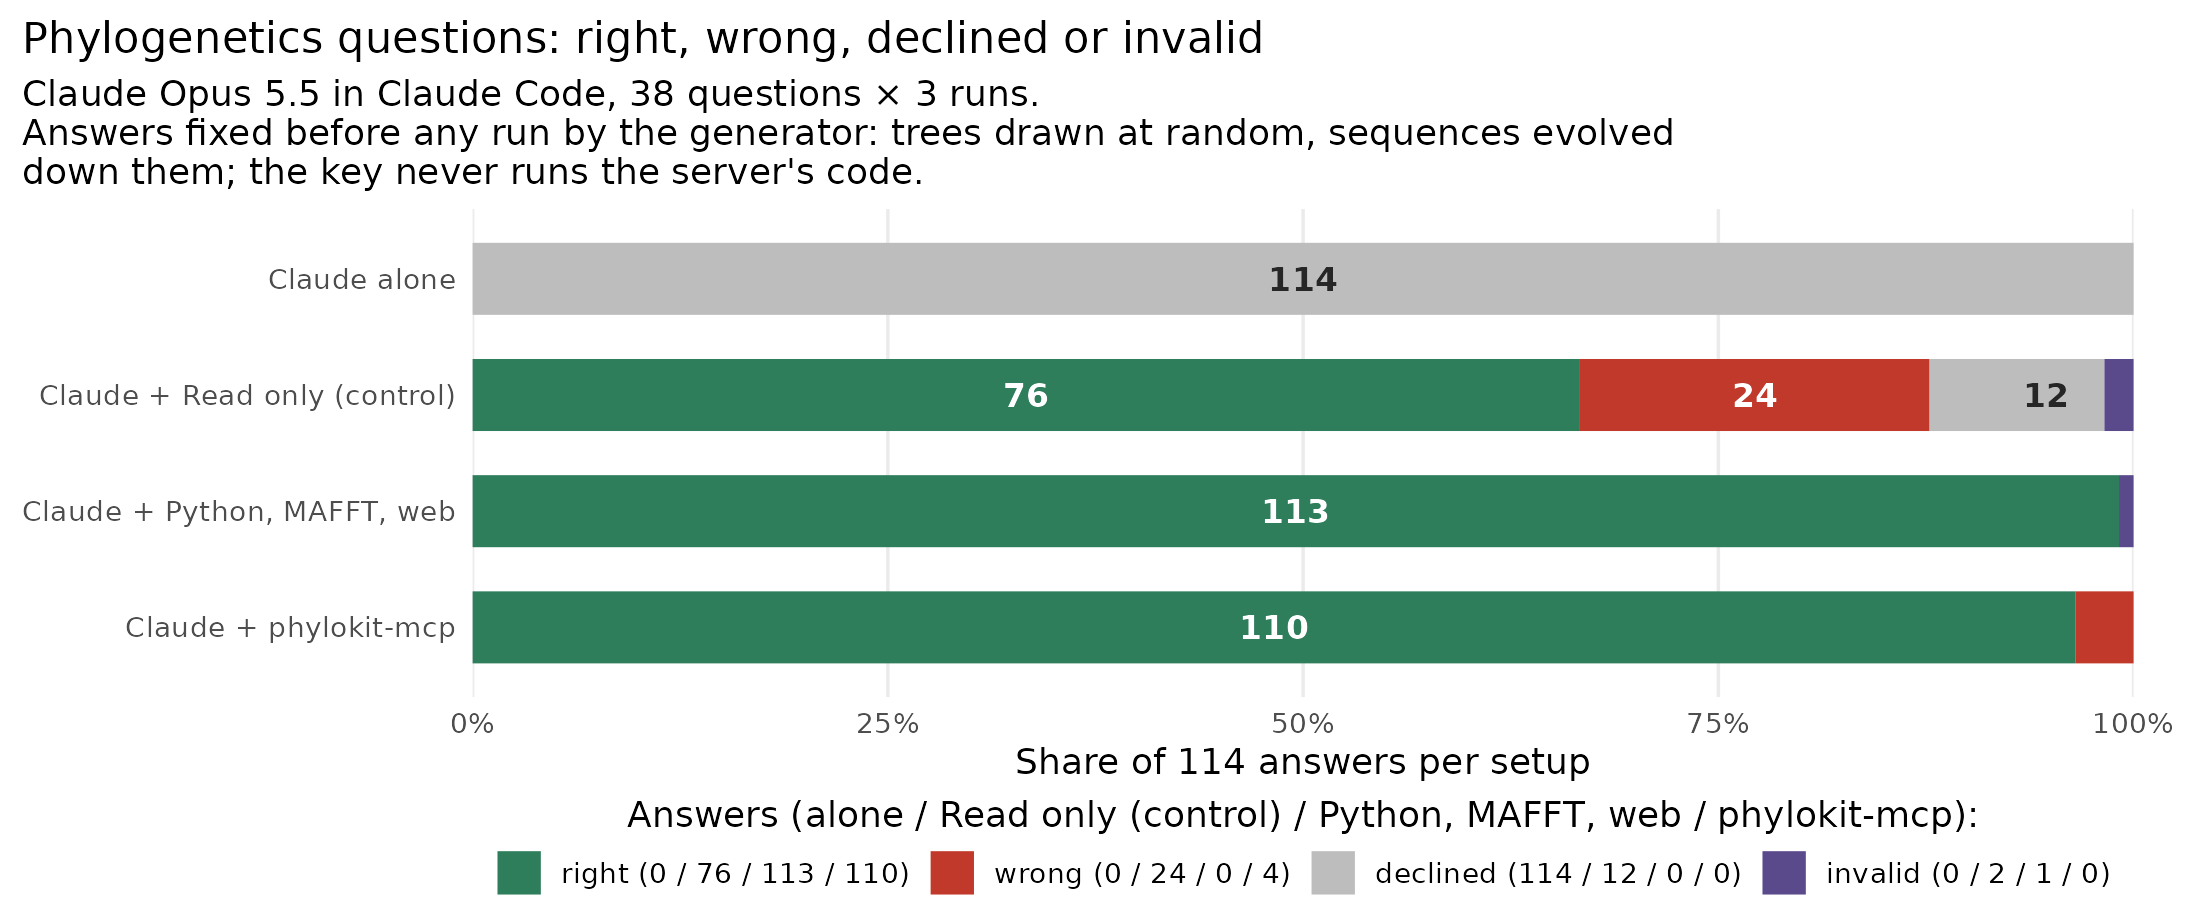
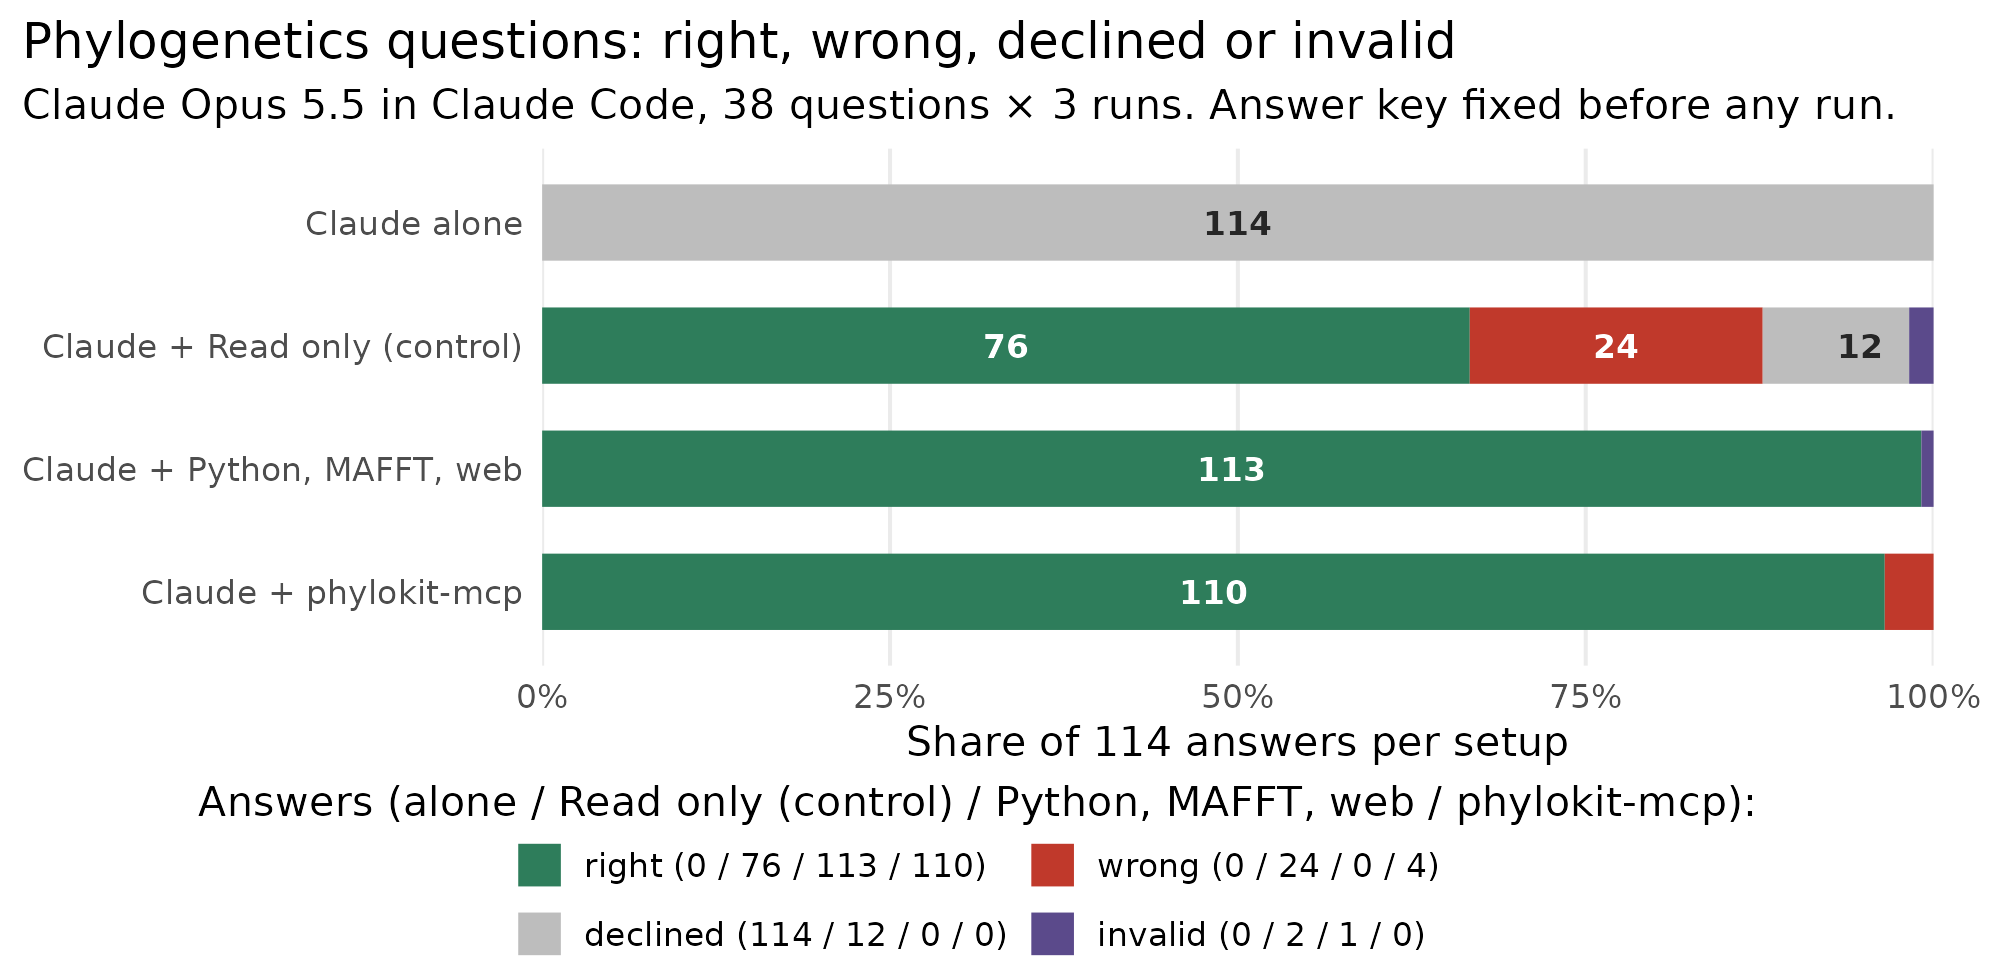
docs(readme): round-2 polish; chart re-rendered for a 780 px display
README 1,066 -> 924 words. Opener names AI agents; logo and the top-block
tests line removed (tests line moved under Tools); badge alt text CI/PyPI/
Python/License/DOI/Glama; sentence-case table headers; benchmark prose now
gives answer counts (110 vs 113 of 114, as the chart shows) beside the
question counts (36 vs 37 of 38, sign test p = 1) from summary.tsv and
paired.tsv. MAFFT fallback and uvx detail move verbatim to docs/INSTALL.md;
the citation paragraph becomes one sentence pointing to CITATION.cff, which
carries the IQ-TREE 3, piqtree and MAFFT references, and NOTICE.

plot.R, agent_qa.png only: 10 in at base_size 15 (was 11 in at 13), a
one-line subtitle, a two-row legend centred on the plot. Data, counts and
colours unchanged; the other three figures untouched.

diff --git a/README.md b/README.md
@@ -1,28 +1,19 @@
 # phylokit-mcp
 
-An MCP server that lets an AI assistant build maximum-likelihood trees with
-IQ-TREE 3 and align sequences with MAFFT. IQ-TREE 3 comes through
-[piqtree](https://github.com/cogent3/piqtree) 0.8, which builds it into its
-wheel.
+phylokit-mcp is an MCP server that lets AI agents build maximum-likelihood
+trees with IQ-TREE 3 and align sequences with MAFFT.
 
-[![ci](https://github.com/musharna/phylokit-mcp/actions/workflows/ci.yml/badge.svg)](https://github.com/musharna/phylokit-mcp/actions/workflows/ci.yml)
+[![CI](https://github.com/musharna/phylokit-mcp/actions/workflows/ci.yml/badge.svg)](https://github.com/musharna/phylokit-mcp/actions/workflows/ci.yml)
 [![PyPI](https://img.shields.io/pypi/v/phylokit-mcp)](https://pypi.org/project/phylokit-mcp/)
-[![python](https://img.shields.io/pypi/pyversions/phylokit-mcp)](https://pypi.org/project/phylokit-mcp/)
-[![license](https://img.shields.io/pypi/l/phylokit-mcp)](https://github.com/musharna/phylokit-mcp/blob/main/LICENSE)
+[![Python](https://img.shields.io/pypi/pyversions/phylokit-mcp)](https://pypi.org/project/phylokit-mcp/)
+[![License](https://img.shields.io/pypi/l/phylokit-mcp)](https://github.com/musharna/phylokit-mcp/blob/main/LICENSE)
 [![DOI](https://zenodo.org/badge/DOI/10.5281/zenodo.21713870.svg)](https://doi.org/10.5281/zenodo.21713870)
 [![Glama](https://glama.ai/mcp/servers/musharna/phylokit-mcp/badges/score.svg)](https://glama.ai/mcp/servers/musharna/phylokit-mcp)
 
 <!-- mcp-name: io.github.musharna/phylokit-mcp -->
 
-<p align="center">
-  <img src="https://raw.githubusercontent.com/musharna/phylokit-mcp/main/assets/logo-400x400.png" alt="phylokit-mcp logo: a white branching tree with colored nodes on a blue rounded square" width="120">
-</p>
-
 **A topology without support is not a result.** `infer_tree` always runs a
 bootstrap and returns per-clade support. There is no flag to skip it.
-
-The tests run real IQ-TREE and real MAFFT (no mocked engine), with 23 mutation
-checks and a real-process JSON-RPC handshake test.
 
 ## Why the rule
 
@@ -30,7 +21,7 @@ A maximum-likelihood tree looks the same whether or not the data support it.
 Measured on alignments simulated from a _known_ 7-taxon tree (JC, 100
 replicates, seed 1):
 
-| sites | informative sites | recovered the true tree? | lowest clade support |
+| Sites | Informative sites | Recovered the true tree? | Lowest clade support |
 | ----: | ----------------: | ------------------------ | -------------------: |
 |   300 |                51 | yes, exactly             |                 1.00 |
 |    60 |                11 | **no, RF 2**             |                 0.57 |
@@ -46,15 +37,16 @@ Not in our benchmark: with this server Claude was no more accurate than with a
 Python shell, and it was slower and cost more.
 
 <p align="center">
-  <img src="https://raw.githubusercontent.com/musharna/phylokit-mcp/main/benchmarks/agent_qa/agent_qa.png" alt="Bar chart of 114 answers per setup (38 questions, 3 runs each). Claude alone: 114 declined. Read only: 76 right, 24 wrong, 12 declined, 2 invalid. Python, MAFFT and web: 113 right, 1 invalid. phylokit-mcp: 110 right, 4 wrong." width="800">
+  <img src="https://raw.githubusercontent.com/musharna/phylokit-mcp/main/benchmarks/agent_qa/agent_qa.png" alt="Bar chart of 114 answers per setup (38 questions, 3 runs each). Claude alone: 114 declined. Read only: 76 right, 24 wrong, 12 declined, 2 invalid. Python, MAFFT and web: 113 right, 1 invalid. phylokit-mcp: 110 right, 4 wrong." width="780">
 </p>
 
-Claude Opus 5.5 answered 38 questions 3 times each: 36 of 38 right in every run
-with the server, 37 with a Python shell that has piqtree and MAFFT (sign test
-p = 1). Per question the server took 6.0 times as long (95% CI 4.4 to 8.3) and
-cost 14.4 times as much (9.9 to 20.2), each a geometric mean of per-question
-ratios. A Read-only control got most answers right on half the kinds of
-question by reading the file alone.
+Claude Opus 5.5 answered 38 questions 3 times each. Counting answers, as the
+chart does, the server got 110 of 114 right and a Python shell with piqtree and
+MAFFT got 113; counting questions, 36 of 38 were right in every run against 37
+(sign test p = 1). Per question the server took 6.0 times as long (95% CI 4.4
+to 8.3) and cost 14.4 times as much (9.9 to 20.2), each a geometric mean of
+per-question ratios. A Read-only control got most answers right on half the
+kinds of question by reading the file alone.
 
 The benchmark does not score support values; method, controls and other
 limitations are in [benchmarks/agent_qa](https://github.com/musharna/phylokit-mcp/blob/main/benchmarks/agent_qa/README.md).
@@ -75,7 +67,7 @@ limitations are in [benchmarks/agent_qa](https://github.com/musharna/phylokit-mc
 
 ## Tools
 
-| tool                        | what it does                                                                       |
+| Tool                        | What it does                                                                       |
 | --------------------------- | ---------------------------------------------------------------------------------- |
 | `infer_tree`                | ML tree **plus** bootstrap support, per clade.                                     |
 | `select_substitution_model` | Ranks 100+ models with ΔAIC/AICc/BIC, and says when the criteria disagree.         |
@@ -84,21 +76,20 @@ limitations are in [benchmarks/agent_qa](https://github.com/musharna/phylokit-mc
 | `align_sequences`           | Aligns unaligned FASTA with MAFFT; the output goes straight into `infer_tree`.     |
 | `capabilities`              | piqtree and IQ-TREE versions, 215 substitution models, MAFFT version, limits.      |
 
+The tests run real IQ-TREE and real MAFFT (no mocked engine), with 23 mutation
+checks and a real-process JSON-RPC handshake test.
+
 ## Install
 
 ```bash
 pip install phylokit-mcp
 ```
 
-Requires **Python 3.12+** (piqtree's prebuilt wheels start there); no compiler,
-R or conda step.
-
-`align_sequences` also needs the [MAFFT](https://mafft.cbrc.jp/alignment/software/)
-binary on `PATH` (`apt install mafft`, `brew install mafft` or
-`conda install -c bioconda mafft`). Without it the other five tools work,
-`capabilities` reports `aligner_version: null`, and `align_sequences` returns a
-refusal naming the install rather than crashing. If MAFFT is installed but does
-not answer `--version`, `aligner_error` says what happened.
+Requires **Python 3.12+**. IQ-TREE 3 comes through
+[piqtree](https://github.com/cogent3/piqtree) 0.8, which builds it into its
+wheel. `align_sequences` also needs the
+[MAFFT](https://mafft.cbrc.jp/alignment/software/) binary on `PATH`; the other
+five tools work without it. Details: [docs/INSTALL.md](https://github.com/musharna/phylokit-mcp/blob/main/docs/INSTALL.md).
 
 ## Configure your MCP client
 
@@ -113,12 +104,8 @@ not answer `--version`, `aligner_error` says what happened.
 }
 ```
 
-`uvx` needs a Python 3.12+ interpreter; if it picks an older one, use
-`"args": ["--python", "3.12", "phylokit-mcp"]`. For your own install, use
-`"command": "phylokit-mcp"` (or its absolute path). Claude Code picks up the
-same config from
-[`.mcp.json`](https://github.com/musharna/phylokit-mcp/blob/main/.mcp.json)
-when this repo is the working directory.
+If `uvx` picks a Python older than 3.12, use
+`"args": ["--python", "3.12", "phylokit-mcp"]`.
 
 ## Reproducibility
 
@@ -152,14 +139,8 @@ equality. Measurements: [docs/REPRODUCIBILITY.md](https://github.com/musharna/ph
 **GPL-2.0-only**, because piqtree is `GPL-2.0-only`, which is _incompatible_
 with GPL-3.0. cogent3 is BSD.
 
-Unofficial; not affiliated with, endorsed by or sponsored by the IQ-TREE
-authors or the cogent3 project. **IQ-TREE is academic software and expects to
-be cited.** If results from this server appear in published work, cite IQ-TREE
-3 as directed at [iqtree.org](http://www.iqtree.org/) (currently Wong et al.
-2026, [doi:10.1093/molbev/msag117](https://doi.org/10.1093/molbev/msag117),
-plus the paper for any method used, such as ModelFinder), piqtree (McArthur et
-al. 2026, [doi:10.1093/molbev/msag061](https://doi.org/10.1093/molbev/msag061))
-and, when `align_sequences` produced the alignment, MAFFT (Katoh & Standley
-2013, [doi:10.1093/molbev/mst010](https://doi.org/10.1093/molbev/mst010)), not
-this wrapper. MAFFT is BSD-licensed and run as a separate program, not linked.
-See [NOTICE](https://github.com/musharna/phylokit-mcp/blob/main/NOTICE).
+If you publish results from this server, cite IQ-TREE 3, piqtree and (when it
+made the alignment) MAFFT, not this wrapper. The references are in
+[CITATION.cff](https://github.com/musharna/phylokit-mcp/blob/main/CITATION.cff),
+and licensing and affiliation are in
+[NOTICE](https://github.com/musharna/phylokit-mcp/blob/main/NOTICE).

diff --git a/docs/INSTALL.md b/docs/INSTALL.md
@@ -1,0 +1,27 @@
+# Install and client setup, in detail
+
+The README has the short version. This page holds the rest.
+
+## The engine
+
+IQ-TREE 3 comes through [piqtree](https://github.com/cogent3/piqtree) 0.8,
+which builds it into its wheel. piqtree ships prebuilt wheels for Python 3.12+,
+so there is no compiler, R or conda step.
+
+## Without MAFFT
+
+`align_sequences` needs the [MAFFT](https://mafft.cbrc.jp/alignment/software/)
+binary on `PATH` (`apt install mafft`, `brew install mafft` or
+`conda install -c bioconda mafft`). Without it the other five tools work,
+`capabilities` reports `aligner_version: null`, and `align_sequences` returns a
+refusal naming the install rather than crashing. If MAFFT is installed but does
+not answer `--version`, `aligner_error` says what happened.
+
+## Client configuration
+
+`uvx` fetches the released package on demand but must resolve a Python 3.12+
+interpreter; if it picks an older one, use
+`"args": ["--python", "3.12", "phylokit-mcp"]`. For your own install, use
+`"command": "phylokit-mcp"`, or the entry point's absolute path if it is not on
+`PATH`. The same config ships as [`.mcp.json`](../.mcp.json), which Claude Code
+picks up when this repo is the working directory.
